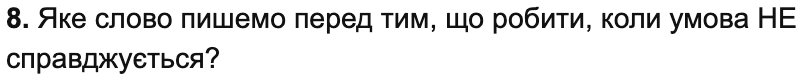
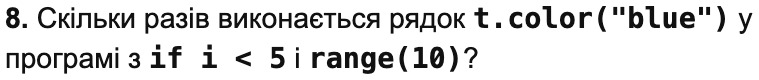
6-Б 09.11: зрозуміліше питання 8 у тесті

Changed region(s): [[0.0, 0.075, 1.0, 0.425], [0.0, 0.55, 0.6364, 0.925], [0.2424, 0.1, 0.2727, 0.125]]

diff --git a/6b-namystynky.html b/6b-namystynky.html
@@ -82,8 +82,8 @@
 
 <script>
 const $ = id => document.getElementById(id);
-const QUIZ = [{"ok": ["10"]}, {"ok": ["0"]}, {"ok": ["9"]}, {"ok": ["5"]}, {"ok": ["7"]}, {"ok": ["3"]}, {"ok": ["синій", "синя", "синього", "blue"]}, {"ok": ["else", "else:"]}, {"ok": ["5"]}, {"ok": ["55"]}, {"ok": ["550"]}, {"ok": ["8"]}];
-const IMGS = ["<img src=\"6b-namystynky/q01.png\" width=\"525\" height=\"28\" alt=\"Питання 1\" draggable=\"false\">", "<img src=\"6b-namystynky/q02.png\" width=\"291\" height=\"25\" alt=\"Питання 2\" draggable=\"false\">", "<img src=\"6b-namystynky/q03.png\" width=\"373\" height=\"28\" alt=\"Питання 3\" draggable=\"false\">", "<img src=\"6b-namystynky/q04.png\" width=\"453\" height=\"28\" alt=\"Питання 4\" draggable=\"false\">", "<img src=\"6b-namystynky/q05.png\" width=\"424\" height=\"28\" alt=\"Питання 5\" draggable=\"false\">", "<img src=\"6b-namystynky/q06.png\" width=\"483\" height=\"28\" alt=\"Питання 6\" draggable=\"false\">", "<img src=\"6b-namystynky/q07.png\" width=\"543\" height=\"51\" alt=\"Питання 7\" draggable=\"false\">", "<img src=\"6b-namystynky/q08.png\" width=\"535\" height=\"53\" alt=\"Питання 8\" draggable=\"false\">", "<img src=\"6b-namystynky/q09.png\" width=\"519\" height=\"28\" alt=\"Питання 9\" draggable=\"false\">", "<img src=\"6b-namystynky/q10.png\" width=\"498\" height=\"27\" alt=\"Питання 10\" draggable=\"false\">", "<img src=\"6b-namystynky/q11.png\" width=\"447\" height=\"53\" alt=\"Питання 11\" draggable=\"false\">", "<img src=\"6b-namystynky/q12.png\" width=\"543\" height=\"28\" alt=\"Питання 12\" draggable=\"false\">"];
+const QUIZ = [{"ok": ["10"]}, {"ok": ["0"]}, {"ok": ["9"]}, {"ok": ["5"]}, {"ok": ["7"]}, {"ok": ["3"]}, {"ok": ["синій", "синя", "синього", "blue"]}, {"ok": ["5"]}, {"ok": ["5"]}, {"ok": ["55"]}, {"ok": ["550"]}, {"ok": ["8"]}];
+const IMGS = ["<img src=\"6b-namystynky/q01.png\" width=\"525\" height=\"28\" alt=\"Питання 1\" draggable=\"false\">", "<img src=\"6b-namystynky/q02.png\" width=\"291\" height=\"25\" alt=\"Питання 2\" draggable=\"false\">", "<img src=\"6b-namystynky/q03.png\" width=\"373\" height=\"28\" alt=\"Питання 3\" draggable=\"false\">", "<img src=\"6b-namystynky/q04.png\" width=\"453\" height=\"28\" alt=\"Питання 4\" draggable=\"false\">", "<img src=\"6b-namystynky/q05.png\" width=\"424\" height=\"28\" alt=\"Питання 5\" draggable=\"false\">", "<img src=\"6b-namystynky/q06.png\" width=\"483\" height=\"28\" alt=\"Питання 6\" draggable=\"false\">", "<img src=\"6b-namystynky/q07.png\" width=\"543\" height=\"51\" alt=\"Питання 7\" draggable=\"false\">", "<img src=\"6b-namystynky/q08.png\" width=\"506\" height=\"53\" alt=\"Питання 8\" draggable=\"false\">", "<img src=\"6b-namystynky/q09.png\" width=\"519\" height=\"28\" alt=\"Питання 9\" draggable=\"false\">", "<img src=\"6b-namystynky/q10.png\" width=\"498\" height=\"27\" alt=\"Питання 10\" draggable=\"false\">", "<img src=\"6b-namystynky/q11.png\" width=\"447\" height=\"53\" alt=\"Питання 11\" draggable=\"false\">", "<img src=\"6b-namystynky/q12.png\" width=\"543\" height=\"28\" alt=\"Питання 12\" draggable=\"false\">"];
 let right = 0, answered = 0;
 $("quiz").innerHTML = QUIZ.map((t, k) => `
   <div class="q" id="q${k}">
